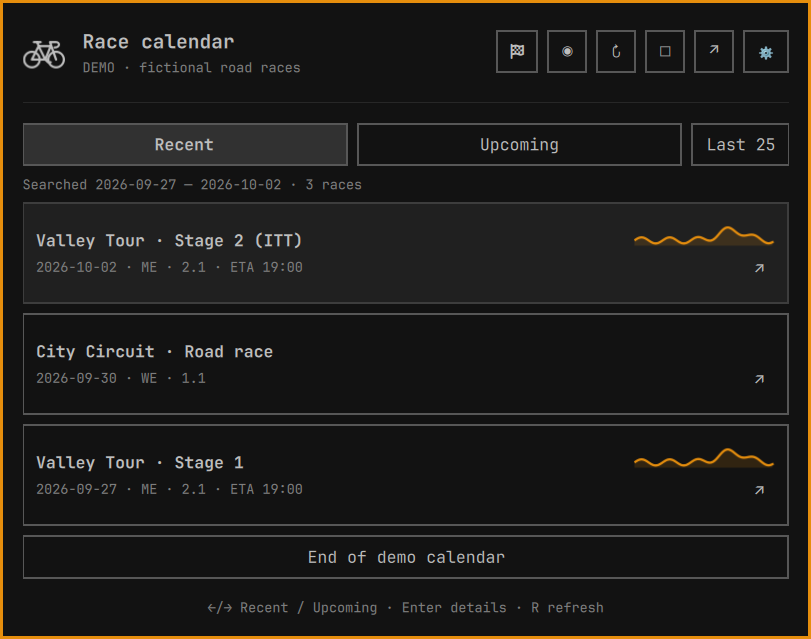
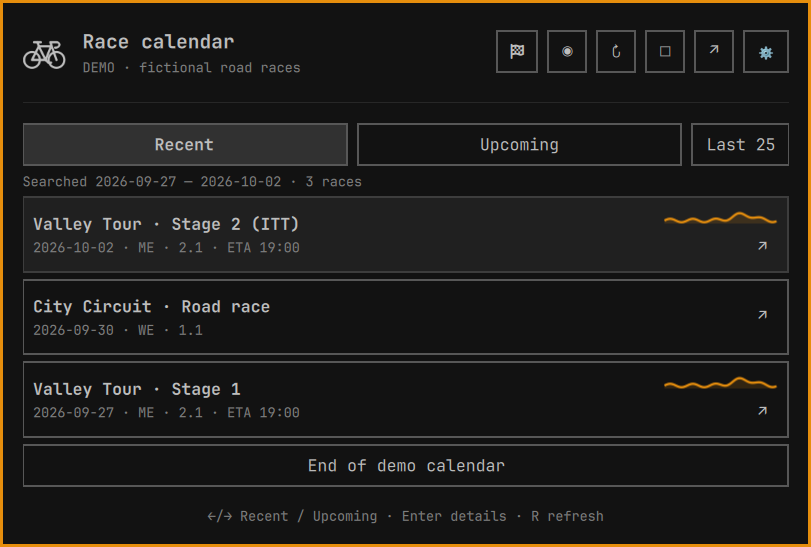
docs: refresh compact list and connection warning captures

diff --git a/docs/validation.md b/docs/validation.md
@@ -7,6 +7,10 @@
   unavailable, without an HTTP 500 warning.
 - `PCS_REQUIRE_QT=1 tests/run`: 117 behavioral tests (61 Python, 35 JavaScript,
   21 Qt service cases), native manifest validation and QML parsing.
+- Native panel verified Langkawi with 108 GC rows and no connection warning;
+  compact daily/calendar rows and the shared-cooldown banner were captured and
+  visually checked. Existing settings (including the saved count of 10) and
+  the prior dashboard view were restored.
 - Added checks for explicit same-race stage routing, absent/foreign links,
   optional-warning titles, shared cooldown and primary-failure priority.
 
